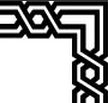
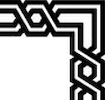
work on bugs homework4

Changed region(s): [[0.0, 0.0, 1.0, 1.0], [0.9143, 0.93, 0.9429, 1.0]]

diff --git a/DIV_FRAME.html b/DIV_FRAME.html
@@ -6,10 +6,15 @@
     <title>DIV_FRAME</title>
 </head>
 <body>
-    <div style="background: url('2.png') repeat-y">
-    <div style="background: url('1.png') no-repeat left top">
-    <div style="background: url('8.png') no-repeat left bottom">
-    <!-- <div>Ничего я тогда не понимал! Надо было судить не по словам, а по делам. Она дарила мне свой аромат, озаряла мою жизнь. Я не должен был бежать. За этими жалкими хитростями и уловками я должен был угадать нежность. Цветы так непоследовательны! Но я был слишком молод, я еще не умел любить.</div> -->
-    </div></div></div>
+    <div style="background: url(8.png) repeat-y left">
+    <div style="background: url(4.png) repeat-y right">
+    <div style="background: url(2.png) repeat-x top"> 
+    <div style="background: url(6.png) repeat-x bottom">   
+    <div style="background: url(1.png) no-repeat left top"> 
+    <div style="background: url(7.png) no-repeat left bottom">
+    <div style="background: url(3.png) no-repeat right top">  
+    <div style="background: url(5.png) no-repeat right bottom"> 
+    <div style="padding: 7%;">Взрослые очень любят цифры. Когда рассказываешь им, что у тебя появился новый друг, они никогда не спросят о самом главном. Никогда они не скажут: "А какой у него голос? В какие игры он любит играть? Ловит ли он бабочек?" Они спрашивают: "Сколько ему лет? Сколько у него братьев? Сколько он весит? Сколько зарабатывает его отец?" И после этого воображают, что узнали человека.<br> Когда говоришь взрослым: "Я видел красивый дом из розового кирпича, в окнах у него герань, а на крыше голуби", - они никак не могут представить себе этот дом. Им надо сказать: "Я видел дом за сто тысяч франков", - и тогда они восклицают: "Какая красота!"</div>
+    </div></div></div></div></div></div></div></div></div>
 </body>
 </html>
